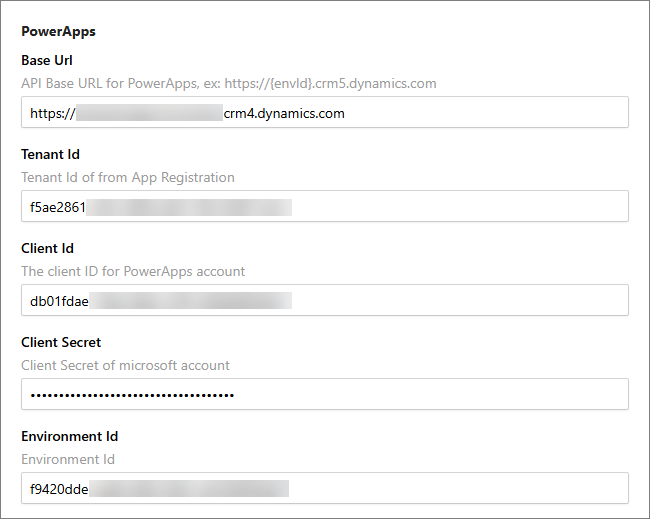
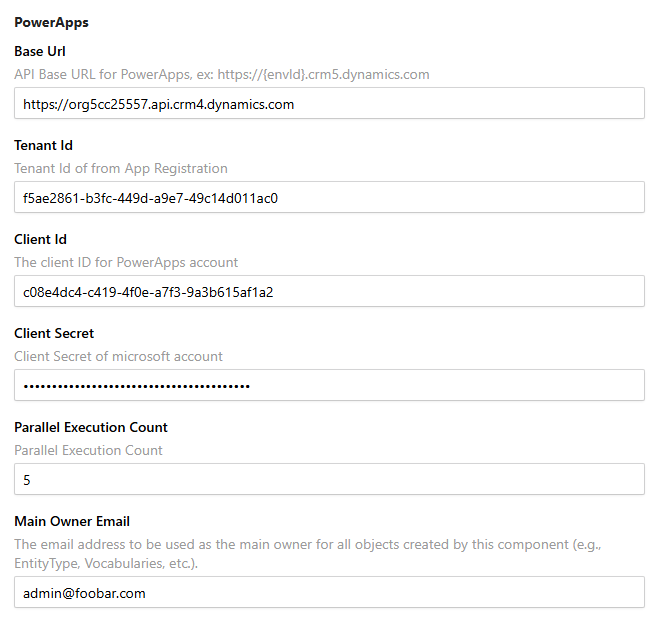
Update PowerApps

Changed region(s): [[0.0, 0.0, 0.9846, 0.8015], [0.0, 0.8324, 1.0, 1.0], [0.9846, 0.0, 1.0, 0.0308]]

diff --git a/docs/180-microsoft-integration/powerapps/020-power-apps-configuration-guide.md b/docs/180-microsoft-integration/powerapps/020-power-apps-configuration-guide.md
@@ -6,7 +6,7 @@ grand_parent: Microsoft Integration
 permalink: /microsoft-integration/powerapps/configuration-guide
 title: Power Apps configuration guide
 tags: ["integration", "microsoft", "powerapps", "dataverse"]
-last_modified: 2025-03-13
+last_modified: 2025-09-29
 ---
 ## On this page
 {: .no_toc .text-delta }
@@ -35,67 +35,15 @@ Basic Power Apps configuration is required to establish connection between your 
 
 1. In **Client Secret**, enter a string value that your application uses to prove its identity when requesting a token. This is the client secret that you created during the pre-configuration stage in [Create a client secret](/microsoft-integration/powerapps/pre-configuration-guide#create-a-client-secret)
 
-1. In **Environment Id**, enter a unique identifier assigned to you Power Apps environment. This is the environment ID that you found during the pre-configuration stage in [Find your environment ID](/microsoft-integration/powerapps/pre-configuration-guide#find-your-environment-id)
+1. In **Parallel Execution Count**, sets the maximum number of threads that can run simultaneously for each executing job (e.g., the "Sync Entity Types Job"). This value controls the concurrency for individual tasks
+
+1. In **Main Owner Email**, enter a valid email address (ideally an administrator's) to be used as the primary contact for system-generated items like Entity Types, Vocabularies, and Streams.
 
     ![cluedin-power-apps.png]({{ "/assets/images/microsoft-integration/power-apps/cluedin-power-apps.png" | relative_url }})
 
 1. In the upper-right corner, select **Save**.
 
     Proceed to the next section to configure Power Apps integration features that you want to use.
-
-## Features of Power Apps integration
-
-Power Apps integration offers a variety of features for syncing data between CluedIn and Dataverse.
-
-**To configure specific features of Power Apps integration**
-
-1. If you want to sync multiple CluedIn business domains to Dataverse tables, specify the **Parallel Execution Count**. This is the number of business domains that can be simultaneously synced with Dataverse. Be default, this number is 5.
-
-1. If you want to sync CluedIn business domains to Dataverse tables:
-
-    1. Turn on the toggle next to **Sync CluedIn Business Domains to Dataverse Table**.
-
-    1. Enter the business domains that you want to sync. If you want to sync multiple business domains, separate them with a comma (for example, _/Type1,/Type2,/Type3_). 
-
-        ![sync-entity-types.png]({{ "/assets/images/microsoft-integration/power-apps/sync-entity-types.png" | relative_url }})
-
-        Each business domain will be synced into a separate Dataverse table. For more information, see [Sync business domains to Dataverse tables](/microsoft-integration/powerapps/features/sync-entitytypes).
-
-1. If you want to sync Dataverse tables and columns to CluedIn business domains and vocabulary keys:
-
-    1. Turn on the toggle next to **Sync Dataverse Table/Columns to CluedIn Business Domains and Vocabulary**.
-
-    1. Enter the name of the Dataverse table that you want to sync. This should be the logical name of the Dataverse table. If you want to sync multiple tables, separate them with a comma (for example, _logical_name1,logical_name2,logical_name3_).
-
-        ![sync-dataverse-table.png]({{ "/assets/images/microsoft-integration/power-apps/sync-dataverse-table.png" | relative_url }})
-
-        Each table will be synced into a separate CluedIn business domain and vocabulary associated with that business domain. The columns from the table will be synced into the vocabulary keys of the vocabulary associated with the business domain. For more information, see [Sync Dataverse tables to CluedIn business domains and vocabularies](/microsoft-integration/powerapps/features/sync-dataverse).
-
-1. If you want to automate the ingestion of data from Dataverse to CluedIn:
-
-    1. Turn on the toggle next to **Create workflow to Ingest Data to CluedIn**.
-
-    1. If you want to allow specific users to view the workflow in Power Apps, add the email addresses of those users in **Workflow Access Users List**.
-
-    1. Enter the **Dataverse Connection ID**. This is the ID that you found during the pre-configuration stage in [Create a connection](/microsoft-integration/powerapps/pre-configuration-guide#create-a-dataverse-connection).
-
-        ![ingestion-workflow.png]({{ "/assets/images/microsoft-integration/power-apps/ingestion-workflow.png" | relative_url }})
-
-        For more information, see [Create ingestion endpoint workflow](/microsoft-integration/powerapps/features/create-workflow).
-
-1. If you want to create a stream to export golden records from CluedIn to a Dataverse table:
-
-    1. Make sure you have the [Dataverse export target](/consume/export-targets/dataverse-connector) installed in your CluedIn instance. It should be available in the list of export targets (**Consume** > **Export Targets** > **Add Export Target**). You do not need to configure the Dataverse export target because it will be configured automatically.
-
-    1. Make sure you have enabled **Sync CluedIn Business Domains to Dataverse Table** for business domains of golden records that you want to export to a Dataverse table. 
-
-    1. Turn on the toggle next to **Create CluedIn Stream**.
-
-        ![create-stream.png]({{ "/assets/images/microsoft-integration/power-apps/create-stream.png" | relative_url }})
-
-        For more information, see [Create streams](/microsoft-integration/powerapps/features/create-streams).
-
-1. In the upper-right corner, select **Save**.
 
 ## Next steps
 

diff --git a/docs/180-microsoft-integration/powerapps/030-features.md b/docs/180-microsoft-integration/powerapps/030-features.md
@@ -26,9 +26,13 @@ This feature allows you to sync CluedIn business domains, vocabularies, and voca
 
     ![Sync Entity Types to Dataverse Tables](../../../assets/images/microsoft-integration/power-apps-backup/sync-cluedin-entitytypes-setting.png)
 
-    Another way to enable this feature is to navigate to **Management** > **Business Domains** and select the business domain you want to sync. Then, select **Edit** and turn on the toggle for **Sync CluedIn Business Domains to Dataverse Table**. Finally, save changes.
+    Another way to enable this feature is to navigate to **Management** > **Business Domains** and select the business domain you want to sync. Then, select **Edit** and turn on the toggle for **(a) Sync CluedIn Business Domains to Dataverse Table**.
+    
+    Enter the Vocabulary Name(s) in the **(b) Vocabulary for Dataverse Sync** textbox to select specific vocabularies for the Dataverse sync. Leave this textbox empty to sync all vocabularies associated with the Business Domain.
+    
+    Finally, save changes.
 
-    ![Sync Entity Types to Dataverse Tables](../../../assets/images/microsoft-integration/power-apps-backup/sync-cluedin-entitytypes-page-setting.png)
+    ![Sync Entity Types to Dataverse Tables](../../../assets/images/microsoft-integration/power-apps/sync-cluedin-entitytypes-page-setting.png)
 
     All the vocabulary keys below will be created as columns in the Dataverse table.
 
@@ -90,6 +94,10 @@ This feature allows you to automate the creation of workflow that will send the 
 
     ![Create workflow to Ingest Data to CluedIn](../../../assets/images/microsoft-integration/power-apps-backup/create-workflow-to-ingest-data-setting-3.png)
 
+1. (Optional) In the **Workflow Access Users List** field, enter the list email address(es) in a comma-delimited format to grant access to the created Workflow. All emails must be registered to your Azure organization directory.
+
+    ![Create workflow to Ingest Data to CluedIn](../../../assets/images/microsoft-integration/power-apps/workflow-access-users-list.png)
+
 **Ingestion endpoint**
 
 As part of workflow automation, the ingestion endpoint will be created as well. From our sample above, you can expect two ingestion endpoints to be created, one for each of the **cluedin_dog** and **crc12_customer** tables.
@@ -128,50 +136,11 @@ Once the data is received, you can expect to see it processed because we have al
 
 ![Auto Processing](../../../assets/images/microsoft-integration/power-apps-backup/ingestion-endpoint-auto-submission.png)
 
-## Create a batch approval workflow process
-
-This feature enables you to automate the creation of the workflow for the batch approval process. If you process the data (regardless of the source) and the system identifies that the business domain used has been tagged for the approval process, the data will be halted, and the approval process will start and wait for the user's approval to continue the data processing.
-
-**Prerequisites**
-
-- Dataverse connection
-- Approval connection
-
-**To enable the batch approval workflow**
-
-1. In CluedIn, on the navigation pane, go to **Management** > **Business Domains**, and then select the business domain that you want to sync.
-
-1. Select **Edit** and then turn on the toggle for **Enable for Batch Approval Workflow**.
-
-1. Select **Save**.
-    
-    ![Create workflow for Batch Approval](../../../assets/images/microsoft-integration/power-apps-backup/batch-approval-entitytypes-page-setting.png)
-
-    After enabling this feature, a new table (Approval Queue Table) will be created in Dataverse.
-
-**Approval Queue table in Dataverse**
-
-This table will serve as a storage of the CluedIn data or information on the data waiting for approval.
-
-The **CluedIn Approval Queue ID** is the ID of the data that we are trying to approve in this process.
-
-![Approval Queue Table](../../../assets/images/microsoft-integration/power-apps-backup/approval-queue-table.png)
-
-**Workflow**
-
-The content of the approval workflow will be composed of events such as condition, approval, variables, and HTTP. A 60-second cycle will occur to check if there is data in the **Approval Queue** table. Once we receive a response in the Approval Process, we send the Approval details together with the CluedIn Approval Queue IDs to the CluedIn API via an HTTP event.
-
-![Batch Approval Workflow](../../../assets/images/microsoft-integration/power-apps-backup/batch-approval-workflow.png)
-
-**Notifications**
-
-Once the automation has been done, you can expect a notification for creating the Approval Queue Table/Columns and the creation of the Batch Approval Workflow.
-
-![Batch Approval Workflow notification](../../../assets/images/microsoft-integration/power-apps-backup/batch-approval-workflow-notification-3.png)
-
 ## Create streams
 
 This feature allows you to automate the creation of export targets and streams.
+
+    Important notice: Make sure that the CluedIn.Connector.Dataverse has been installed.
 
 **To automate the creation of export targets and streams**
 

diff --git a/docs/180-microsoft-integration/powerapps/010-power-apps-pre-configuration-guide.md b/docs/180-microsoft-integration/powerapps/010-power-apps-pre-configuration-guide.md
@@ -101,6 +101,8 @@ In order to manage your master data from CluedIn directly in Power Apps Datavers
 
 1. In **Member's privilege inheritance**, select **Direct User (Basic) access level and Team privileges**.
 
+        Important: You must add the `System Customizer` role to the Service Principal role. This role is required so the Service Principal can automatically access tables created by the PowerApps component or Dataverse Connector.
+
     ![create-security-role.png]({{ "/assets/images/microsoft-integration/power-apps/create-security-role.png" | relative_url }})
 
 1. Select **Save**.

diff --git a/docs/180-microsoft-integration/powerapps/040-external-features.md b/docs/180-microsoft-integration/powerapps/040-external-features.md
@@ -7,6 +7,7 @@ permalink: /microsoft-integration/powerapps/external-features
 title: External features
 tags: ["integration", "microsoft", "powerapps", "dataverse"]
 last_modified: 2023-05-17
+published: false
 ---
 ## On this page
 {: .no_toc .text-delta }
